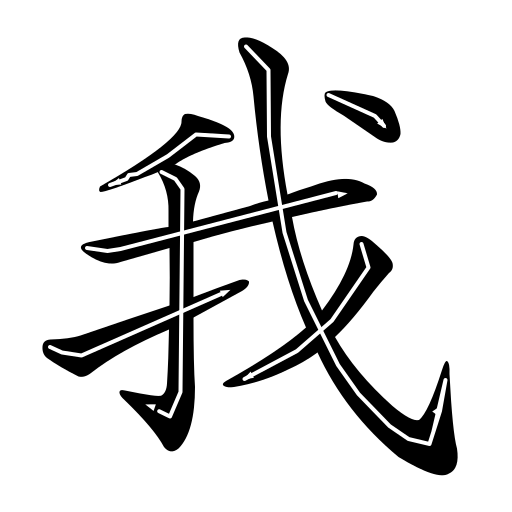
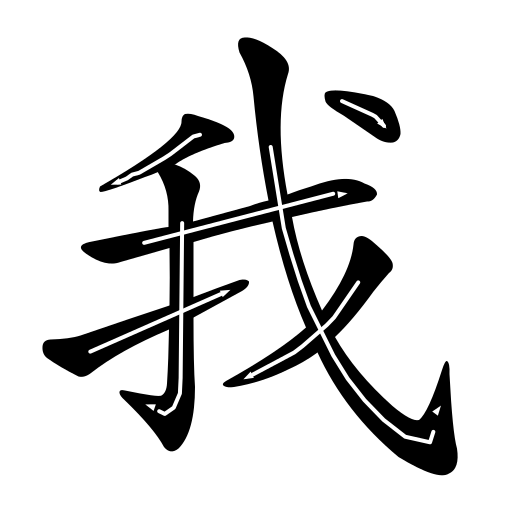
Fix number positioning: place inside stroke, start arrow after number
- Move stroke numbers to 12% along the stroke path (inside the stroke)
- Start arrow line at 20% (after the number) instead of at the edge
- Removes the dot artifact at stroke start
- Numbers now have space and don't overlap with arrow start

diff --git a/stroke_caps/generatePrintableSvg.js b/stroke_caps/generatePrintableSvg.js
@@ -40,19 +40,51 @@ function generatePrintableSvg(char, options = {}) {
     strokePaths += `
         <path d="${strokePath}" class="stroke"/>`;
 
-    // Generate full arrow following the median
-    const { linePath, headPath } = generateFullArrowPath(median, {
-      headSize: arrowSize,
-      endFraction: 0.92
-    });
+    // Position number at 12% along the stroke path (inside the stroke, not at edge)
+    const numberPosition = interpolateMedianPoint(median, 0.12);
+    const [numX, numY] = numberPosition;
+
+    // Generate arrow starting AFTER the number (from 20% to 92%)
+    const arrowStartPoint = interpolateMedianPoint(median, 0.20);
+    const arrowEndPoint = interpolateMedianPoint(median, 0.92);
+
+    // Build arrow line path from 20% to ~87% (leaving room for arrowhead)
+    let linePath = `M ${arrowStartPoint[0]} ${arrowStartPoint[1]}`;
+    for (let t = 0.25; t <= 0.87; t += 0.05) {
+      const pt = interpolateMedianPoint(median, t);
+      linePath += ` L ${pt[0]} ${pt[1]}`;
+    }
+    const arrowBasePoint = interpolateMedianPoint(median, 0.87);
+    linePath += ` L ${arrowBasePoint[0]} ${arrowBasePoint[1]}`;
+
+    // Calculate arrowhead direction and position
+    const directionPoint = interpolateMedianPoint(median, 0.82);
+    const dx = arrowEndPoint[0] - directionPoint[0];
+    const dy = arrowEndPoint[1] - directionPoint[1];
+    const length = Math.sqrt(dx * dx + dy * dy);
+    const dirX = length > 0 ? dx / length : 1;
+    const dirY = length > 0 ? dy / length : 0;
+
+    // Generate arrowhead
+    const headWidth = arrowSize * 0.7;
+    const perpX = -dirY;
+    const perpY = dirX;
+    const tipX = arrowEndPoint[0];
+    const tipY = arrowEndPoint[1];
+    const baseX = arrowEndPoint[0] - dirX * arrowSize;
+    const baseY = arrowEndPoint[1] - dirY * arrowSize;
+    const wing1X = baseX + perpX * (headWidth / 2);
+    const wing1Y = baseY + perpY * (headWidth / 2);
+    const wing2X = baseX - perpX * (headWidth / 2);
+    const wing2Y = baseY - perpY * (headWidth / 2);
+    const headPath = `M ${tipX} ${tipY} L ${wing1X} ${wing1Y} L ${wing2X} ${wing2Y} Z`;
 
     // Add white arrow (no outline needed since it's inside black stroke)
     arrows += `
         <path d="${linePath}" class="arrow-line"/>
         <path d="${headPath}" class="arrow-head"/>`;
 
-    // Add stroke number at start of stroke (centered on the arrow start)
-    const [numX, numY] = median[0];
+    // Add stroke number centered inside the stroke
     arrows += `
         <text x="${numX}" y="${numY}" class="stroke-number" style="transform-origin:${numX}px ${numY}px; transform:scale(1,-1);">${strokeNum}</text>`;
   }
